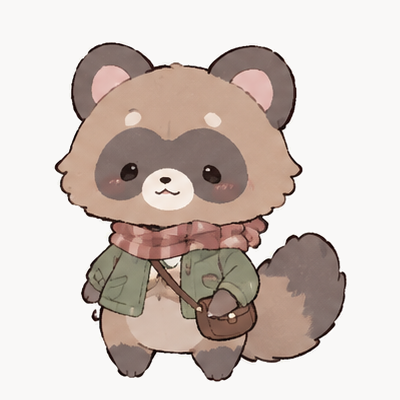
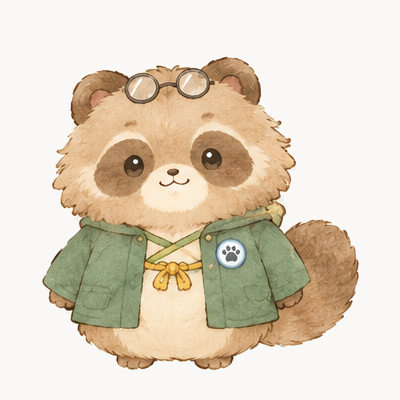
feat: 新しい社員イラストに差し替え、切り出しスクリプトとOGP画像を更新

diff --git a/scripts/crop_members.py b/scripts/crop_members.py
@@ -2,43 +2,76 @@
 
 使い方:
     python -m pip install -r scripts/requirements.txt
-    python scripts/crop_members.py <members-sheet.png のパス> public/members
+    python scripts/crop_members.py <元画像のパス> public/members
 
-元画像シートに無い社員（ホロ）の画像は、400x400 の画像を別に用意して背景だけそろえる:
-    python scripts/crop_members.py --normalize public/members/holo.webp
+元画像は 1536x1024、3列x3行・名前ラベルなし。並びは左上から右へ、上の行から:
+    konko, poko, hime / kerota, moko, mike / penta, piyo, holo
+
+処理:
+  1. 紙の色（最頻色）との差が大きい画素を「描かれた部分」とし、行・列の投影から 9 人の範囲を求める
+  2. 各キャラの足元を基準に 400x400 の窓を決める（拡大縮小なし。8人とも足元の高さがそろう）
+  3. 窓とそのキャラの持ち場（隣との境目の中央まで）の重なり部分だけを貼る
+  4. 外周から連結した「紙の色に近い画素」を、完全な #F9F8F7 に置き換える（キャラ内部の白は塗らない）
+  5. lossless WebP で保存し、検証する
 """
 import sys
 from pathlib import Path
 
-from PIL import Image
+from PIL import Image, ImageChops
 
-EXPECTED_SIZE = (1490, 1055)
-BG = (0xF9, 0xF8, 0xF7)
-THRESHOLD = 209  # 背景(249)から40以上暗い画素を輪郭として扱う
+EXPECTED_SIZE = (1536, 1024)
+BG = (0xF9, 0xF8, 0xF7)  # HP の背景色
 SIZE = 400
-FOOT_MARGIN = 18
-ROWS = [(0, 480), (520, 925)]
+FOOT_MARGIN = 30  # 足元から窓の下端まで
+INK_THRESHOLD = 16  # 紙の色から各チャンネル16以上離れていたら「描かれた部分」
+FLATTEN_TOL = 6
+MIN_GAP = 12  # これより狭い隙間は同じキャラとして結合
 IDS = [
-    ["piyo", "penta", "mike", "moko"],
-    ["kerota", "hime", "poko", "konko"],
+    ["konko", "poko", "hime"],
+    ["kerota", "moko", "mike"],
+    ["penta", "piyo", "holo"],
 ]
 MAX_BYTES = 200 * 1024
 
 
-def ink_bbox(cell: Image.Image):
-    mask = cell.convert("L").point(lambda v: 255 if v < THRESHOLD else 0)
-    return mask.getbbox()
+def paper_color(img: Image.Image):
+    counts = img.getcolors(maxcolors=img.width * img.height)
+    return max(counts)[1]
 
 
-def flatten_background(img: Image.Image, tol: int = 6) -> Image.Image:
-    """四隅（外周）から連結した「背景に近い色」だけを完全な BG に置き換える。
-    キャラクター内部の白（毛など）は輪郭線で囲まれているので塗りつぶされない。"""
+def ink_mask(img: Image.Image, ref, threshold: int = INK_THRESHOLD) -> Image.Image:
+    diff = ImageChops.difference(img, Image.new("RGB", img.size, ref))
+    r, g, b = diff.split()
+    d = ImageChops.lighter(ImageChops.lighter(r, g), b)
+    return d.point(lambda v: 255 if v >= threshold else 0)
+
+
+def runs(proj, min_gap: int = 1):
+    """投影（0 / 非0）から連続区間を求める。min_gap 未満の隙間は結合する。"""
+    out = []
+    start = None
+    for i, v in enumerate(proj):
+        if v > 0:
+            if start is None:
+                start = i
+            last = i
+        elif start is not None and i - last >= min_gap:
+            out.append((start, last))
+            start = None
+    if start is not None:
+        out.append((start, last))
+    return out
+
+
+def flatten_background(img: Image.Image, ref, tol: int = FLATTEN_TOL) -> Image.Image:
+    """外周から連結した「ref に近い色」だけを完全な BG に置き換える。
+    キャラクター内部の白（毛など）は、外周から連結していなければ塗りつぶされない。"""
     img = img.copy()
     px = img.load()
     w, h = img.size
 
     def near(c):
-        return all(abs(c[i] - BG[i]) <= tol for i in range(3))
+        return all(abs(c[i] - ref[i]) <= tol for i in range(3))
 
     seen = bytearray(w * h)
     stack = []
@@ -58,21 +91,45 @@ def flatten_background(img: Image.Image, tol: int = 6) -> Image.Image:
     return img
 
 
-def normalize_file(path: Path) -> int:
-    img = Image.open(path).convert("RGB")
-    if img.size != (SIZE, SIZE):
-        print(f"{path}: サイズが {img.size}（{SIZE}x{SIZE} が必要）")
-        return 1
-    flatten_background(img).save(path, "WEBP", lossless=True, method=6)
-    out = Image.open(path).convert("RGB")
-    ok = out.getpixel((0, 0)) == BG and out.getpixel((SIZE - 1, SIZE - 1)) == BG
-    print(f"{path.name}: {path.stat().st_size // 1024}KB 四隅={'OK' if ok else 'NG'}")
-    return 0 if ok and path.stat().st_size <= MAX_BYTES else 1
+def locate(sheet: Image.Image, ref):
+    """9人それぞれの (x0, x1, y0, y1)（描かれた部分の外接矩形）と、持ち場（セル）を返す。"""
+    w, h = sheet.size
+    mask = ink_mask(sheet, ref)
+    row_runs = runs(list(mask.resize((1, h), Image.BOX).getdata()), MIN_GAP)
+    if len(row_runs) != 3:
+        raise SystemExit(f"行が3つに分かれませんでした: {row_runs}")
+    # 行の持ち場：隣の行との隙間の中央
+    cuts_y = [0] + [(row_runs[i][1] + row_runs[i + 1][0]) // 2 for i in range(2)] + [h]
+    found = {}
+    for r, (ry0, ry1) in enumerate(row_runs):
+        band = mask.crop((0, ry0, w, ry1 + 1))
+        col_runs = runs(list(band.resize((w, 1), Image.BOX).getdata()), MIN_GAP)
+        if len(col_runs) != 3:
+            raise SystemExit(f"{r + 1}行目が3人に分かれませんでした: {col_runs}")
+        cuts_x = [0] + [(col_runs[i][1] + col_runs[i + 1][0]) // 2 for i in range(2)] + [w]
+        for c, (cx0, cx1) in enumerate(col_runs):
+            bb = band.crop((cx0, 0, cx1 + 1, band.height)).getbbox()
+            found[IDS[r][c]] = {
+                "bbox": (cx0, ry0 + bb[1], cx1 + 1, ry0 + bb[3]),
+                "cell": (cuts_x[c], cuts_y[r], cuts_x[c + 1], cuts_y[r + 1]),
+            }
+    return found
+
+
+def make_card(sheet: Image.Image, ref, info) -> Image.Image:
+    x0, y0, x1, y1 = info["bbox"]
+    cx0, cy0, cx1, cy1 = info["cell"]
+    wx0 = (x0 + x1) // 2 - SIZE // 2
+    wy1 = y1 + FOOT_MARGIN
+    wy0 = wy1 - SIZE
+    ox0, oy0 = max(wx0, cx0), max(wy0, cy0)
+    ox1, oy1 = min(wx0 + SIZE, cx1), min(wy1, cy1)
+    canvas = Image.new("RGB", (SIZE, SIZE), ref)  # セル外は紙の色（あとで BG に置き換わる）
+    canvas.paste(sheet.crop((ox0, oy0, ox1, oy1)), (ox0 - wx0, oy0 - wy0))
+    return flatten_background(canvas, ref)
 
 
 def main() -> int:
-    if len(sys.argv) == 3 and sys.argv[1] == "--normalize":
-        return normalize_file(Path(sys.argv[2]))
     if len(sys.argv) != 3:
         print(__doc__)
         return 2
@@ -81,33 +138,15 @@ def main() -> int:
     if sheet.size != EXPECTED_SIZE:
         print(f"画像サイズが {EXPECTED_SIZE} ではありません: {sheet.size}")
         return 1
-    w = sheet.width
+    ref = paper_color(sheet)
     out_dir.mkdir(parents=True, exist_ok=True)
+    found = locate(sheet, ref)
     problems = []
 
-    for r, (y0, y1) in enumerate(ROWS):
-        for c, member_id in enumerate(IDS[r]):
-            x0, x1 = round(c * w / 4), round((c + 1) * w / 4)
-            cell = sheet.crop((x0, y0, x1, y1))
-            bbox = ink_bbox(cell)
-            if bbox is None:
-                problems.append(f"{member_id}: 輪郭が見つかりません")
-                continue
-            # 窓（セル座標）。横は bbox の中心、縦は足元の18px下を下端にする
-            cx = (bbox[0] + bbox[2]) // 2
-            wx0 = cx - SIZE // 2
-            wy1 = bbox[3] + FOOT_MARGIN
-            wy0 = wy1 - SIZE
-            # 窓とセルの重なり部分だけを貼る
-            ox0, oy0 = max(wx0, 0), max(wy0, 0)
-            ox1, oy1 = min(wx0 + SIZE, cell.width), min(wy1, cell.height)
-            canvas = Image.new("RGB", (SIZE, SIZE), BG)
-            canvas.paste(cell.crop((ox0, oy0, ox1, oy1)), (ox0 - wx0, oy0 - wy0))
-            canvas = flatten_background(canvas)
-            path = out_dir / f"{member_id}.webp"
-            canvas.save(path, "WEBP", lossless=True, method=6)
+    for member_id, info in found.items():
+        path = out_dir / f"{member_id}.webp"
+        make_card(sheet, ref, info).save(path, "WEBP", lossless=True, method=6)
 
-    # 検証
     for ids in IDS:
         for member_id in ids:
             path = out_dir / f"{member_id}.webp"
@@ -119,19 +158,20 @@ def main() -> int:
                 problems.append(f"{member_id}: サイズが {img.size}")
             if path.stat().st_size > MAX_BYTES:
                 problems.append(f"{member_id}: {path.stat().st_size} バイト（200KB超）")
-            if img.getpixel((0, 0)) != BG or img.getpixel((SIZE - 1, SIZE - 1)) != BG:
-                problems.append(f"{member_id}: 四隅が背景色と一致しません")
-            top = img.crop((0, 0, SIZE, 10))
-            if ink_bbox(top) is not None:
+            corners = [img.getpixel(p) for p in [(0, 0), (SIZE - 1, 0), (0, SIZE - 1), (SIZE - 1, SIZE - 1)]]
+            if any(c != BG for c in corners):
+                problems.append(f"{member_id}: 四隅が背景色と一致しません {corners}")
+            if ink_mask(img.crop((0, 0, SIZE, 10)), BG, 24).getbbox() is not None:
                 problems.append(f"{member_id}: 上端が切れています")
-            print(f"{member_id}: {img.size} {path.stat().st_size // 1024}KB")
+            x0, y0, x1, y1 = found[member_id]["bbox"]
+            print(f"{member_id}: {img.size} {path.stat().st_size // 1024}KB 元の大きさ {x1 - x0}x{y1 - y0}")
 
     if problems:
         print("検証に失敗:")
         for p in problems:
             print(" -", p)
         return 1
-    print("OK: 8枚そろいました")
+    print("OK: 9枚そろいました")
     return 0
 
 
